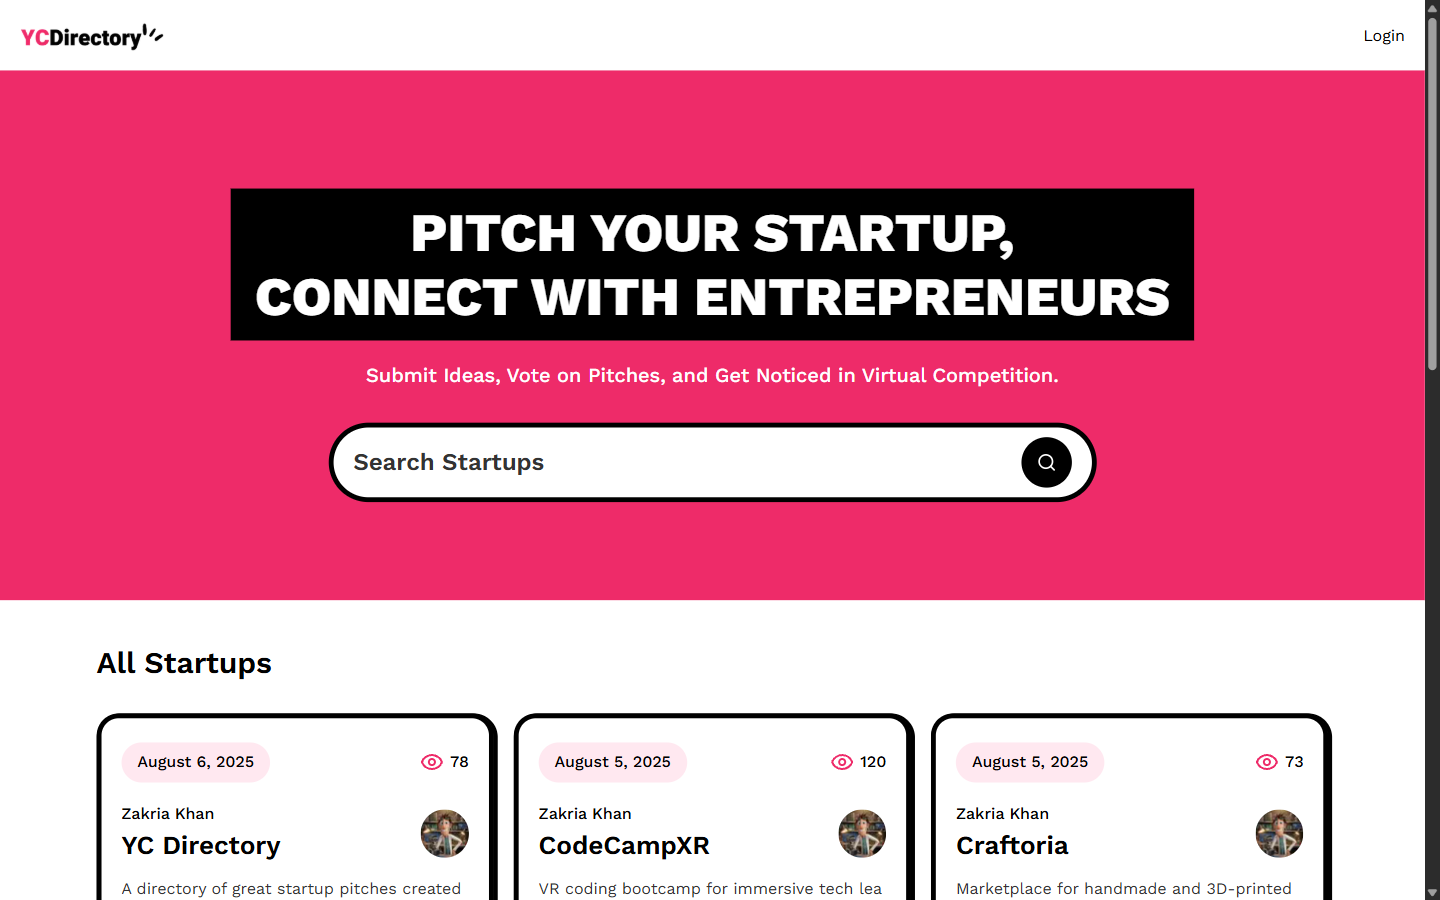
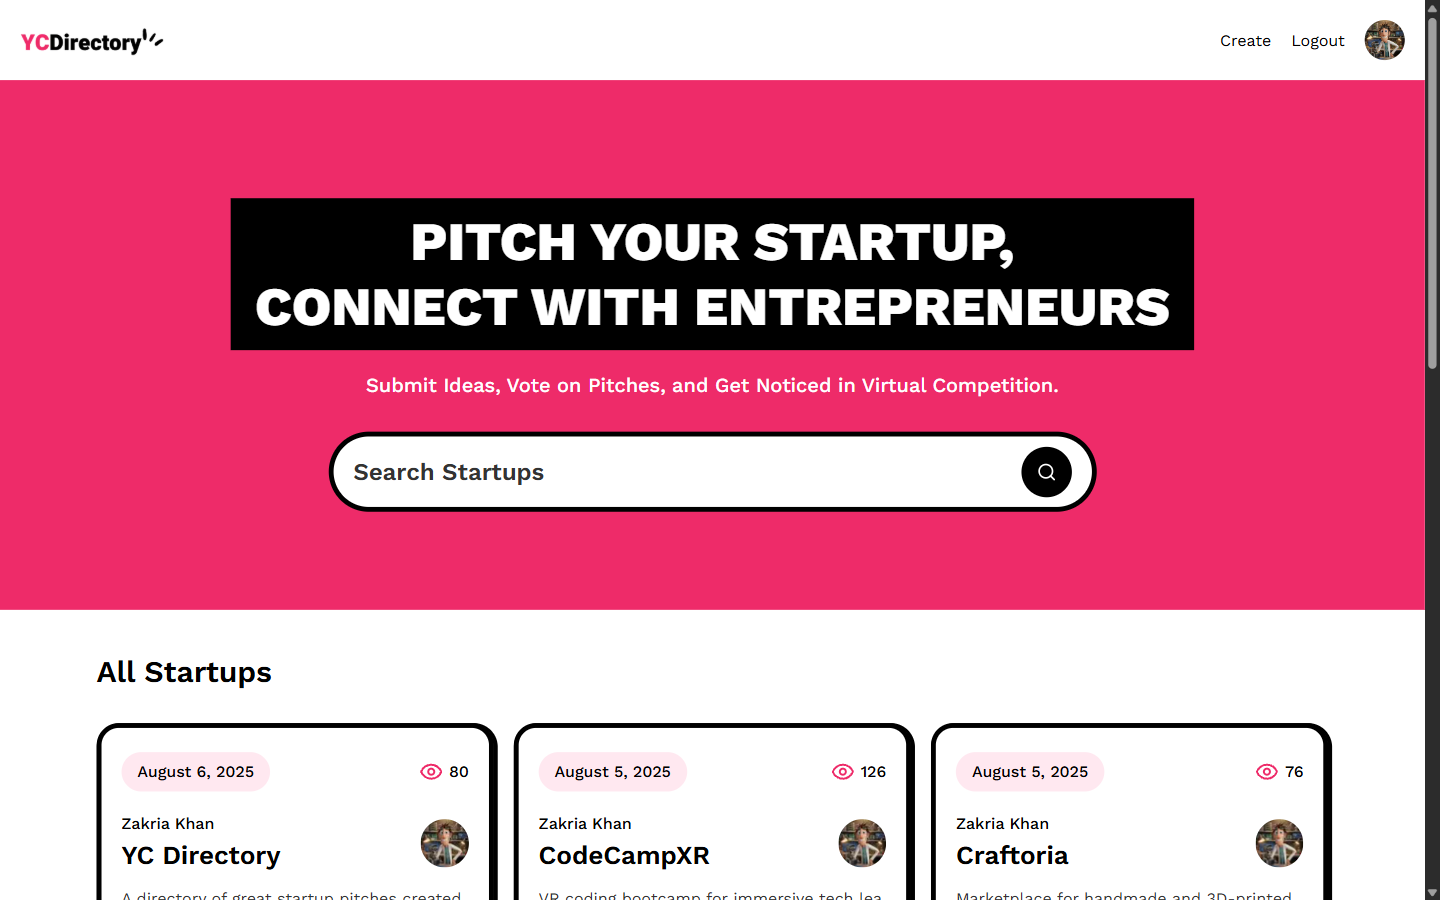
docs: capture signed-in views in screenshots

diff --git a/README.md b/README.md
@@ -11,7 +11,7 @@ with the Next.js App Router, Sanity, Auth.js, and Tailwind CSS.
 [Contributing](CONTRIBUTING.md) ·
 [Security](SECURITY.md)
 
-![YC Directory home page](docs/screenshots/home-hero.png)
+![YC Directory home page while signed in](docs/screenshots/home-hero.png)
 
 > **Project status:** portfolio project. The latest pass added documentation,
 > tests, metadata, dependency patches, and CI without changing application
@@ -25,13 +25,28 @@ The existing deployment is available at
 <https://yc-directory-nine-lilac.vercel.app>.
 
 The screenshots in this README were captured from a local production build of
-this repository. They show the current UI, including the legacy "Vote on
-Pitches" copy; the application does not implement voting.
+this repository while signed in with GitHub. They show the current UI, including
+the legacy "Vote on Pitches" copy; the application does not implement voting.
 
 ![Startup detail page](docs/screenshots/startup-detail.png)
 
 *The detail page renders the pitch as Markdown, shows the author, and displays a
 view count.*
+
+### Signed-in views
+
+The header shows **Create**, **Logout**, and the GitHub avatar when a session is
+active. `/startup/create` redirects signed-out visitors to the home page.
+
+![Create startup form](docs/screenshots/create-startup.png)
+
+*The create form includes title, description, category, image URL, and a
+Markdown pitch editor.*
+
+![Author profile](docs/screenshots/user-profile.png)
+
+*The profile page shows the signed-in author's GitHub avatar, handle, bio, and
+startups, using the responsive stacked layout at a 1023px viewport.*
 
 ## Features
 
